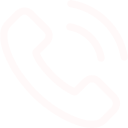
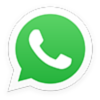
feat: :sparkles: add whatsapp button

diff --git a/wp-content/themes/drdavi/style.css b/wp-content/themes/drdavi/style.css
@@ -40,6 +40,12 @@ h4 {
   height: 100%;
 }
 
+.wp-button-home{
+	position:fixed;
+	bottom:10px;
+	right:10px;
+	z-index:99999;
+}
 
 .about-home-title{
 	padding: 11px 0 0 13px;

diff --git a/wp-content/themes/drdavi/enviar.php b/wp-content/themes/drdavi/enviar.php
@@ -1,17 +1,12 @@
 <?php
 
-// Mudar Aqui o e-mail
-
-$email_envio = ''; // E-mail receptor
-$email_pass = ''; // Senha do e-mail
-
-$site_name = ''; // Nome do Site
-$site_url = ''; // URL do Site
-
-$host_smtp = 'smtp.gmail.com'; // HOST SMTP Ex: smtp.domain.com.br
-$host_port = '465'; // Porta do Host
-
+// Mudar aqui o e-mail
+$emailenvio = 'davi4alves@gmail.com';
+$assunto = 'Formulário DrDavi';
+$url = 'https://drdavi.com.br/';
 // Variáveis do Formulário
+
+print_r($_POST);
 
 $nome = $_POST['nome'];
 $email = $_POST['email'];
@@ -19,83 +14,35 @@ $telefone = $_POST['telefone'];
 $mensagem = $_POST['mensagem'];
 
 // Conteúdo do Formulário
-
-$body_content = "De: $nome \n E-mail: $email \n Telefone: $telefone \n Mensagem: $mensagem";
-
+$body = "$mensagem\n\n---------------\n\n$nome\n$telefone\n$email";
 // Não mudar a partir daqui
 
 if ($_POST['leaveblank'] != '' or $_POST['dontchange'] != 'http://') {
 
-  echo "<h2
-	style=\"
-	font-size: 1em;
-	margin-top: 20%;
-	text-align: center;
-	font-family: 'Helvetica', 'Arial', 'Sans-Serif';
-	font-weight: normal;
-	color: #1b1b1b;
-	\"><center><span>Aconteceu algum erro!</span><p>Você pode tentar denovo ou enviar direto para " . $email_envio . "!</p></center><h2>";
+  echo "Não foi possível enviar o e-mail. Tente novamente ou entre em contato com " . $emailenvio;
+  echo "<meta HTTP-EQUIV='Refresh' CONTENT='10;URL=" . $url . "'>";
 
-	echo "<html style=\"background: #fff;\"></html>";
-	echo "<meta HTTP-EQUIV='Refresh' CONTENT='10;URL=" . $site_url . "'>";
+} else if (isset($_POST['email'])) {
+
+  require('./PHPMailer/PHPMailerAutoload.php');
+
+  $mail = new PHPMailer;
+  $mail->CharSet = 'UTF-8';
+  $mail->WordWrap = 70;
+  $mail->addAddress($emailenvio);
+
+  $mail->From = $email;
+  $mail->FromName = $nome;
+  $mail->AddReplyTo($email, $nome);
+  $mail->Subject = $assunto;
+
+  $mail->Body = $body;
+
+  if (!$mail->send()) {
+    echo "Não foi possível enviar o e-mail. Tente novamente ou entre em contato com " . $emailenvio;
+    echo "<meta HTTP-EQUIV='Refresh' CONTENT='10;URL=" . $url . "'>";
+  } else {
+    echo "E-mail enviado com sucesso!";
+    echo "<meta HTTP-EQUIV='Refresh' CONTENT='2;URL=" . $url . "'>";
+  }
 }
-
-else if (isset($_POST['nome'])){
-
-require ('./PHPMailer/PHPMailerAutoload.php');
-
-$mail = new PHPMailer;
-$mail->CharSet = 'UTF-8';
-
-$mail->isSMTP();
-$mail->Host = $host_smtp;
-$mail->SMTPAuth = true;
-$mail->Username = $email_envio;
-$mail->Password = $email_pass;
-$mail->Port = $host_port;
-
-$mail->From = $email_envio;
-
-$mail->addAddress($email_envio);
-
-$mail->FromName = 'Formulário de Contato';
-$mail->AddReplyTo($_POST['email'], $_POST['nome']);
-
-$mail->WordWrap = 70;
-
-$mail->Subject = 'Formulário - ' . $site_name . ' - ' . $_POST['nome'];
-
-$mail->Body = $body_content;
-
-if(!$mail->send()) {
-
-  echo "<h2
-	style=\"
-	font-size: 1.5em;
-	margin-top: 20%;
-	text-align: center;
-	font-family: Inconsolata', 'Helvetica', 'Arial', 'sans-serif';
-	font-weight: normal;
-	color: #fdc64b;
-	\"><center><span>Aconteceu algum erro!</span><p>Você pode tentar denovo ou enviar direto para " . $email_envio . "!</p></center><h2>";
-
-	echo "<html style=\"background: #fff;\"></html>";
-	echo "<meta HTTP-EQUIV='Refresh' CONTENT='10;URL=" . $site_url . "'>";
-
-} else {
-
-  echo "<h2
-	style=\"
-	font-size: 1.5em;
-	margin-top: 20%;
-	text-align: center;
-	font-family: 'Inconsolata', 'Helvetica', 'Arial', 'sans-serif';
-	font-weight: normal;
-	color: #89bb50;
-	\"><center><span>Formulário Enviado</span><p>Em breve eu entro em contato com você. Abraços.</p></center><h2>";
-
-	echo "<html style=\"background: #fff;\"></html>";
-	echo "<meta HTTP-EQUIV='Refresh' CONTENT='2;URL=" . $site_url . "'>";
-}
-}
-?>

diff --git a/wp-content/themes/drdavi/page-home.php b/wp-content/themes/drdavi/page-home.php
@@ -131,20 +131,24 @@ $home = get_page_by_title('home');
               <form id="my-form" action="<?php echo get_template_directory_uri() ?>/enviar.php" method="POST" class="row">
                 <div class="form-group col-md-6">
                   <label for="name"></label>
-                  <input id="name" type="text" placeholder="Nome" name="Name" class="form-control form-com">
+                  <input id="nome" type="text" placeholder="Nome" name="nome" class="form-control form-com">
                 </div>
                 <div class="form-group col-md-6">
                   <label for="email"></label>
-                  <input id="email" type="email" placeholder="Email" name="Email" class="form-control form-com">
+                  <input id="email" type="email" placeholder="Email" name="email" class="form-control form-com">
                 </div>
                 <div class="form-group col-md-6">
                   <label for="number"></label>
-                  <input id="number" type="number" placeholder="Celular" name="Mobile" class="form-control form-com">
+                  <input id="number" type="number" placeholder="Celular" name="telefone" class="form-control form-com">
                 </div>
                 <div class="form-group col-md-6">
                   <label for="subject"></label>
-                  <input id="subject" type="text" placeholder="Assunto" name="Subject" class="form-control form-com">
+                  <input id="subject" type="text" placeholder="Assunto" name="mensagem" class="form-control form-com">
                 </div>
+                <label for="nao-aparece1"></label>
+                <input id="nao-aparece1" type="text" placeholder="nao-aparece1" name="dontchange" class="hide-element form-control form-com" value="http://">
+                <label for=" nao-aparece2"></label>
+                <input id="nao-aparece2" type="text" placeholder="Assunto" name="leaveblank" class="hide-element form-control form-com">
                 <div class="view-all col-md-12">
                   <button class="animation-cer-btn" id="my-form-button">
                     Enviar uma mensagem
@@ -158,6 +162,12 @@ $home = get_page_by_title('home');
       </div>
     </div>
   </div>
+</section>
+
+<section class="wp-button-home" >
+  <a href="https://wa.me/5511987221913?text='Ol%C3%A1,%20gostaria%20de%20conversar%20com%20o%20Doutor%20Davi,%20venho%20do%20site.'" class="float" target="_blank">
+    <img height="35" width="45" src="<?php echo get_template_directory_uri() ?>/img/c-2.png" alt="Contate Pelo Whats app" />
+  </a>
 </section>
 
 <?php ?>

diff --git a/wp-content/themes/drdavi/header.php b/wp-content/themes/drdavi/header.php
@@ -5,13 +5,19 @@
 
 <head>
     <meta http-equiv="Content-Type" content="text/html; charset=UTF-8">
+    <title><?php bloginfo('name'); ?><?php wp_title('-') ?> <?php the_field('title_seo') ?></title>
+    <meta name="description" content="<?php bloginfo('name'); ?> <?php wp_title('-') ?> <?php the_field('description_seo') ?>">
 
-    <meta http-equiv="x-ua-compatible" content="ie=edge">
-    <title><?php the_title() ?></title>
-    <meta name="description" content="">
+    <meta property="og:type" content="website" />
+    <meta property="og:title" content="<?php bloginfo('name'); ?><?php wp_title('-') ?> <?php the_field('title_seo') ?>" />
+    <meta property="og:description" content="<?php bloginfo('name'); ?><?php wp_title('-') ?> <?php the_field('description_seo') ?>" />
+    <meta property="og:url" content="<?php bloginfo('url') ?>" />
+    <meta property="og:image" content="<?php echo get_template_directory_uri(); ?>/img/banner.webp" />
+
     <meta name="viewport" content="width=device-width, initial-scale=1">
-    <meta name="viewport" content="width=device-width, initial-scale=1.0">
-    <link rel="shortcut icon" type="image/x-icon" href="<?php echo get_template_directory_uri() ?>/img/favicon.png">
+
+    <link rel="shortcut icon" href="<?= get_template_directory_uri(); ?>/img/favicon.png">
+
 
     <!-- Inicio Wordpress Head-->
     <?php wp_head(); ?>

diff --git a/wp-content/advanced-cache.php b/wp-content/advanced-cache.php
@@ -1,0 +1,40 @@
+<?php
+
+/**
+ * W3 Total Cache advanced cache module
+ */
+if ( !defined( 'ABSPATH' ) ) {
+	die();
+}
+
+global $w3tc_start_microtime;
+$w3tc_start_microtime = microtime( true );
+
+/**
+ * Abort W3TC loading if WordPress is upgrading
+ */
+if ( defined( 'WP_INSTALLING' ) && WP_INSTALLING )
+	return;
+
+if ( !defined( 'W3TC_IN_MINIFY' ) ) {
+	if ( !defined( 'W3TC_DIR' ) ) {
+		define( 'W3TC_DIR', ( defined( 'WP_PLUGIN_DIR' ) ? WP_PLUGIN_DIR : WP_CONTENT_DIR . '/plugins' ) . '/w3-total-cache' );
+	}
+
+	if ( !@is_dir( W3TC_DIR ) || !file_exists( W3TC_DIR . '/w3-total-cache-api.php' ) ) {
+		if ( defined( 'WP_ADMIN' ) ) { // lets don't show error on front end
+			echo sprintf( '<strong>W3 Total Cache Error:</strong> some files appear to be missing or out of place. Please re-install plugin or remove <strong>%s</strong>. <br />', __FILE__ );
+		}
+	} else {
+		require_once W3TC_DIR . '/w3-total-cache-api.php';
+
+		$w3tc_redirect = \W3TC\Dispatcher::component( 'Mobile_Redirect' );
+		$w3tc_redirect->process();
+
+		$w3tc_config = \W3TC\Dispatcher::config();
+		if ( $w3tc_config->get_boolean( 'pgcache.enabled' ) ) {
+			$o = \W3TC\Dispatcher::component( 'PgCache_ContentGrabber' );
+			$o->process();
+		}
+	}
+}

diff --git a/wp-content/themes/drdavi/PHPMailer/PHPMailerAutoload.php b/wp-content/themes/drdavi/PHPMailer/PHPMailerAutoload.php
@@ -23,6 +23,7 @@
  */
 function PHPMailerAutoload($classname)
 {
+    spl_autoload_register('PHPMailerAutoload', true, true);
     //Can't use __DIR__ as it's only in PHP 5.3+
     $filename = dirname(__FILE__).DIRECTORY_SEPARATOR.'class.'.strtolower($classname).'.php';
     if (is_readable($filename)) {
@@ -42,8 +43,5 @@ if (version_compare(PHP_VERSION, '5.1.2', '>=')) {
      * Fall back to traditional autoload for old PHP versions
      * @param string $classname The name of the class to load
      */
-    function __autoload($classname)
-    {
-        PHPMailerAutoload($classname);
-    }
+    spl_autoload_register('PHPMailerAutoload');
 }

diff --git a/wp-content/w3tc-config/master.php b/wp-content/w3tc-config/master.php
@@ -933,9 +933,12 @@
     "common.instance_id": 1690380987,
     "common.force_master": true,
     "extensions.active": {
-        "fragmentcache": "w3-total-cache\/Extension_FragmentCache_Plugin.php"
+        "fragmentcache": "w3-total-cache\/Extension_FragmentCache_Plugin.php",
+        "wordpress-seo": "w3-total-cache\/Extension_WordPressSeo_Plugin.php"
     },
-    "extensions.active_frontend": [],
+    "extensions.active_frontend": {
+        "wordpress-seo": "*"
+    },
     "extensions.active_dropin": [],
     "plugin.license_key": "",
     "plugin.type": "",

diff --git a/wp-content/themes/drdavi/footer.php b/wp-content/themes/drdavi/footer.php
@@ -87,7 +87,7 @@
                    </ul>
                    <div class="copy_text">
                        <span>Todos os direitos reservados &copy; <?php echo
-                                                                date('Y') ?></span>
+                                                                    date('Y') ?></span>
                    </div>
                </div>
            </div>
